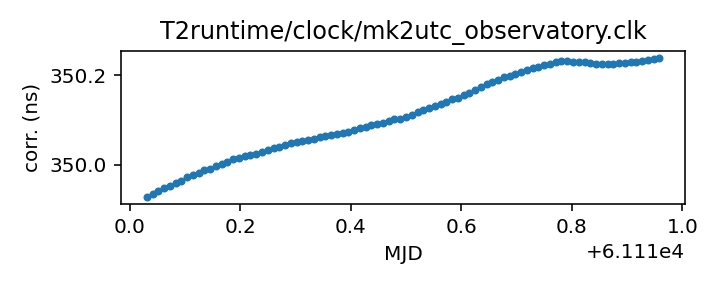
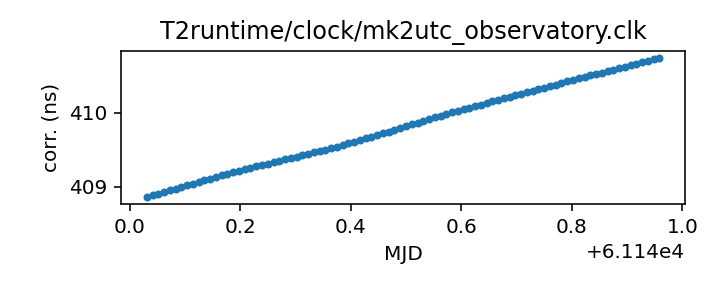
Routine gh-pages update from Github action Fri Apr 17 21:12:51 UTC 2026

diff --git a/status.md b/status.md
@@ -13,18 +13,18 @@ name of each clock file links to a page with more details.
 
 | Name | File | Corrections start | Corrections end | Last check date | Last check result 
 |:--- |:--- | --- | --- | --- |:--- 
-| [GPS to UTC](T2runtime/clock/gps2utc.clk.html) | `T2runtime/clock/gps2utc.clk` | 1993-01-01 MJD 48988.0 | 2026-03-30 MJD 61129.0 | 2026-04-16 | Unchanged 
-| [GPS to UTC (Combined Clock)](T2runtime/clock/gps2utc_cc.clk.html) | `T2runtime/clock/gps2utc_cc.clk` | 1993-01-01 MJD 48988.0 | 2026-03-30 MJD 61129.0 | 2026-04-16 | Unchanged 
-| [GPS to UTC (Corrected)](T2runtime/clock/gps2utc_c0p.clk.html) | `T2runtime/clock/gps2utc_c0p.clk` | 2010-12-29 MJD 55559.0 | 2026-03-30 MJD 61129.0 | 2026-04-16 | Unchanged 
-| [GBT](tempo/clock/time_gbt.dat.html) | `tempo/clock/time_gbt.dat` | 2000-12-31 MJD 51909.5 | 2026-04-15 MJD 61145.5 | 2026-04-16 | Updated 
-| [GBT (TEMPO2 converted from TEMPO)](T2runtime/clock/gbt2gps.clk.html) | `T2runtime/clock/gbt2gps.clk` | 2000-12-31 MJD 51909.5 | 2024-05-18 MJD 60448.5 | 2026-04-16 | **Validation failed** 
+| [GPS to UTC](T2runtime/clock/gps2utc.clk.html) | `T2runtime/clock/gps2utc.clk` | 1993-01-01 MJD 48988.0 | 2026-03-30 MJD 61129.0 | 2026-04-17 | Unchanged 
+| [GPS to UTC (Combined Clock)](T2runtime/clock/gps2utc_cc.clk.html) | `T2runtime/clock/gps2utc_cc.clk` | 1993-01-01 MJD 48988.0 | 2026-03-30 MJD 61129.0 | 2026-04-17 | Unchanged 
+| [GPS to UTC (Corrected)](T2runtime/clock/gps2utc_c0p.clk.html) | `T2runtime/clock/gps2utc_c0p.clk` | 2010-12-29 MJD 55559.0 | 2026-03-30 MJD 61129.0 | 2026-04-17 | Unchanged 
+| [GBT](tempo/clock/time_gbt.dat.html) | `tempo/clock/time_gbt.dat` | 2000-12-31 MJD 51909.5 | 2026-04-16 MJD 61146.5 | 2026-04-17 | Updated 
+| [GBT (TEMPO2 converted from TEMPO)](T2runtime/clock/gbt2gps.clk.html) | `T2runtime/clock/gbt2gps.clk` | 2000-12-31 MJD 51909.5 | 2024-05-18 MJD 60448.5 | 2026-04-17 | **Validation failed** 
 | [Jodrell Bank](T2runtime/clock/jb2gps.clk.html) | `T2runtime/clock/jb2gps.clk` | 2006-10-13 MJD 54021.4 | 2025-11-28 MJD 61007.0 | 2026-04-13 | Unchanged 
-| [Jodrell Bank Roach](T2runtime/clock/jbroach2jb.clk.html) | `T2runtime/clock/jbroach2jb.clk` | 2006-10-13 MJD 54021.4 | 2018-03-20 MJD 58197.6 | 2026-04-10 | Unchanged 
-| [Jodrell Bank DFB](T2runtime/clock/jbdfb2jb.clk.html) | `T2runtime/clock/jbdfb2jb.clk` | 2006-10-13 MJD 54021.4 | 2021-02-22 MJD 59268.0 | 2026-04-10 | Unchanged 
-| [Meerkat (observatory)](T2runtime/clock/mk2utc_observatory.clk.html) | `T2runtime/clock/mk2utc_observatory.clk` | 2019-01-01 MJD 58484.0 | 2026-03-11 MJD 61111.0 | 2026-04-10 | Unchanged 
-| [Leap seconds](tempo/clock/leap.sec.html) | `tempo/clock/leap.sec` | 1972-07-01 MJD 41499.0 | 2017-01-01 MJD 57754.0 | 2026-04-16 | Unchanged 
-| [UT1 table](tempo/clock/ut1.dat.html) | `tempo/clock/ut1.dat` | 1973-01-02 MJD 41684.0 | 2027-04-24 MJD 61519.0 | 2026-04-16 | Updated 
-| [UT1 table](T2runtime/clock/ut1.dat.html) | `T2runtime/clock/ut1.dat` | 1973-01-02 MJD 41684.0 | 2027-04-24 MJD 61519.0 | 2026-04-16 | Updated 
+| [Jodrell Bank Roach](T2runtime/clock/jbroach2jb.clk.html) | `T2runtime/clock/jbroach2jb.clk` | 2006-10-13 MJD 54021.4 | 2018-03-20 MJD 58197.6 | 2026-04-17 | Unchanged 
+| [Jodrell Bank DFB](T2runtime/clock/jbdfb2jb.clk.html) | `T2runtime/clock/jbdfb2jb.clk` | 2006-10-13 MJD 54021.4 | 2021-02-22 MJD 59268.0 | 2026-04-17 | Unchanged 
+| [Meerkat (observatory)](T2runtime/clock/mk2utc_observatory.clk.html) | `T2runtime/clock/mk2utc_observatory.clk` | 2019-01-01 MJD 58484.0 | 2026-04-10 MJD 61141.0 | 2026-04-17 | Updated 
+| [Leap seconds](tempo/clock/leap.sec.html) | `tempo/clock/leap.sec` | 1972-07-01 MJD 41499.0 | 2017-01-01 MJD 57754.0 | 2026-04-17 | Unchanged 
+| [UT1 table](tempo/clock/ut1.dat.html) | `tempo/clock/ut1.dat` | 1973-01-02 MJD 41684.0 | 2027-04-24 MJD 61519.0 | 2026-04-17 | Unchanged 
+| [UT1 table](T2runtime/clock/ut1.dat.html) | `T2runtime/clock/ut1.dat` | 1973-01-02 MJD 41684.0 | 2027-04-24 MJD 61519.0 | 2026-04-17 | Unchanged 
 
 
 
@@ -69,26 +69,26 @@ name of each clock file links to a page with more details.
 
 | Name | File | Corrections start | Corrections end | Last check date | Last check result 
 |:--- |:--- | --- | --- | --- |:--- 
-| [GPS to UTC (TEMPO2)](T2runtime/clock/gpst2utc_tempo2.clk.html) | `T2runtime/clock/gpst2utc_tempo2.clk` | 1993-01-01 MJD 48988.0 | 2024-12-30 MJD 60674.0 | 2026-04-10 | Unchanged 
-| [GBT (TEMPO2)](T2runtime/clock/gbt2gps_tempo2.clk.html) | `T2runtime/clock/gbt2gps_tempo2.clk` | 2000-12-31 MJD 51909.5 | 2020-02-25 MJD 58904.5 | 2026-04-10 | Unchanged 
-| [Jodrell Bank (TEMPO)](tempo/clock/time_jb.dat.html) | `tempo/clock/time_jb.dat` | 2006-10-13 MJD 54021.4 | 2019-05-13 MJD 58616.2 | 2026-04-10 | Unchanged 
-| [VLA](tempo/clock/time_vla.dat.html) | `tempo/clock/time_vla.dat` | 1990-10-27 MJD 48191.2 | 2025-02-10 MJD 60716.2 | 2026-04-10 | Unchanged 
-| [VLA (TEMPO2)](T2runtime/clock/vla2gps.clk.html) | `T2runtime/clock/vla2gps.clk` | 2015-02-01 MJD 57054.6 | 2025-02-10 MJD 60716.2 | 2026-04-10 | Unchanged 
-| [VLA to NIST](T2runtime/clock/vla2nist.clk.html) | `T2runtime/clock/vla2nist.clk` | 1990-10-27 MJD 48191.2 | 1993-11-13 MJD 49304.0 | 2026-04-10 | Unchanged 
-| [FAST](tempo/clock/time_fast.dat.html) | `tempo/clock/time_fast.dat` | 2017-07-27 MJD 57961.0 | 2025-08-25 MJD 60913.0 | 2026-04-10 | **Failed to download** 
-| [WSRT](T2runtime/clock/wsrt2gps.clk.html) | `T2runtime/clock/wsrt2gps.clk` | 1999-01-01 MJD 51179.5 | 2015-06-29 MJD 57202.1 | 2026-04-10 | Unchanged 
-| [WSRT (TEMPO)](tempo/clock/time_wsrt.dat.html) | `tempo/clock/time_wsrt.dat` | 1987-07-24 MJD 47000.0 | 2007-12-24 MJD 54458.0 | 2026-04-10 | **Validation failed** 
-| [Parkes](T2runtime/clock/pks2gps.clk.html) | `T2runtime/clock/pks2gps.clk` | 1858-11-17 MJD 0.0 | 2026-02-28 MJD 61099.1 | 2026-04-10 | Unchanged 
-| [Parkes (TEMPO)](tempo/clock/time_pks.dat.html) | `tempo/clock/time_pks.dat` | 1979-05-07 MJD 44000.0 | 2011-07-03 MJD 55745.8 | 2026-04-10 | Unchanged 
-| [SRT](T2runtime/clock/srt2gps.clk.html) | `T2runtime/clock/srt2gps.clk` | 2013-03-20 MJD 56371.0 | 2019-12-11 MJD 58828.0 | 2026-04-10 | Unchanged 
-| [Effelsberg](T2runtime/clock/eff2gps.clk.html) | `T2runtime/clock/eff2gps.clk` | 1993-11-29 MJD 49320.0 | 2015-06-22 MJD 57195.5 | 2026-04-10 | Unchanged 
-| [Effelsberg Asterix/PSRix](T2runtime/clock/effix2gps.clk.html) | `T2runtime/clock/effix2gps.clk` | 2011-01-01 MJD 55562.5 | 2021-03-21 MJD 59294.5 | 2026-04-10 | **Validation failed** 
-| [LEAP](T2runtime/clock/leap2effix.clk.html) | `T2runtime/clock/leap2effix.clk` | 2012-10-29 MJD 56230.0 | 2014-03-04 MJD 56720.0 | 2026-04-10 | Unchanged 
-| [NUPPI](tempo/clock/time_nuppi.dat.html) | `tempo/clock/time_nuppi.dat` | 2005-03-07 MJD 53436.0 | 2015-11-08 MJD 57334.6 | 2026-04-10 | Unchanged 
-| [Meerkat (TEMPO2)](T2runtime/clock/mk2utc.clk.html) | `T2runtime/clock/mk2utc.clk` | 2019-01-01 MJD 58484.0 | 2024-09-23 MJD 60576.9 | 2026-04-10 | **Validation failed** 
-| [MOST](T2runtime/clock/mo2gps.clk.html) | `T2runtime/clock/mo2gps.clk` | 2003-12-27 MJD 53000.0 | 2018-09-06 MJD 58367.0 | 2026-04-10 | Unchanged 
-| [Nancay to obspm](T2runtime/clock/ncyobs2obspm.clk.html) | `T2runtime/clock/ncyobs2obspm.clk` | 1988-05-18 MJD 47299.6 | 2025-09-26 MJD 60944.0 | 2026-04-10 | Unchanged 
-| [obspm](T2runtime/clock/obspm2gps.clk.html) | `T2runtime/clock/obspm2gps.clk` | 2003-12-01 MJD 52974.0 | 2025-09-26 MJD 60944.0 | 2026-04-10 | Unchanged 
+| [GPS to UTC (TEMPO2)](T2runtime/clock/gpst2utc_tempo2.clk.html) | `T2runtime/clock/gpst2utc_tempo2.clk` | 1993-01-01 MJD 48988.0 | 2024-12-30 MJD 60674.0 | 2026-04-17 | Unchanged 
+| [GBT (TEMPO2)](T2runtime/clock/gbt2gps_tempo2.clk.html) | `T2runtime/clock/gbt2gps_tempo2.clk` | 2000-12-31 MJD 51909.5 | 2020-02-25 MJD 58904.5 | 2026-04-17 | Unchanged 
+| [Jodrell Bank (TEMPO)](tempo/clock/time_jb.dat.html) | `tempo/clock/time_jb.dat` | 2006-10-13 MJD 54021.4 | 2019-05-13 MJD 58616.2 | 2026-04-17 | Unchanged 
+| [VLA](tempo/clock/time_vla.dat.html) | `tempo/clock/time_vla.dat` | 1990-10-27 MJD 48191.2 | 2025-02-10 MJD 60716.2 | 2026-04-17 | Unchanged 
+| [VLA (TEMPO2)](T2runtime/clock/vla2gps.clk.html) | `T2runtime/clock/vla2gps.clk` | 2015-02-01 MJD 57054.6 | 2025-02-10 MJD 60716.2 | 2026-04-17 | Unchanged 
+| [VLA to NIST](T2runtime/clock/vla2nist.clk.html) | `T2runtime/clock/vla2nist.clk` | 1990-10-27 MJD 48191.2 | 1993-11-13 MJD 49304.0 | 2026-04-17 | Unchanged 
+| [FAST](tempo/clock/time_fast.dat.html) | `tempo/clock/time_fast.dat` | 2017-07-27 MJD 57961.0 | 2025-08-25 MJD 60913.0 | 2026-04-17 | **Failed to download** 
+| [WSRT](T2runtime/clock/wsrt2gps.clk.html) | `T2runtime/clock/wsrt2gps.clk` | 1999-01-01 MJD 51179.5 | 2015-06-29 MJD 57202.1 | 2026-04-17 | Unchanged 
+| [WSRT (TEMPO)](tempo/clock/time_wsrt.dat.html) | `tempo/clock/time_wsrt.dat` | 1987-07-24 MJD 47000.0 | 2007-12-24 MJD 54458.0 | 2026-04-17 | **Validation failed** 
+| [Parkes](T2runtime/clock/pks2gps.clk.html) | `T2runtime/clock/pks2gps.clk` | 1858-11-17 MJD 0.0 | 2026-02-28 MJD 61099.1 | 2026-04-17 | Unchanged 
+| [Parkes (TEMPO)](tempo/clock/time_pks.dat.html) | `tempo/clock/time_pks.dat` | 1979-05-07 MJD 44000.0 | 2011-07-03 MJD 55745.8 | 2026-04-17 | Unchanged 
+| [SRT](T2runtime/clock/srt2gps.clk.html) | `T2runtime/clock/srt2gps.clk` | 2013-03-20 MJD 56371.0 | 2019-12-11 MJD 58828.0 | 2026-04-17 | Unchanged 
+| [Effelsberg](T2runtime/clock/eff2gps.clk.html) | `T2runtime/clock/eff2gps.clk` | 1993-11-29 MJD 49320.0 | 2015-06-22 MJD 57195.5 | 2026-04-17 | Unchanged 
+| [Effelsberg Asterix/PSRix](T2runtime/clock/effix2gps.clk.html) | `T2runtime/clock/effix2gps.clk` | 2011-01-01 MJD 55562.5 | 2021-03-21 MJD 59294.5 | 2026-04-17 | **Validation failed** 
+| [LEAP](T2runtime/clock/leap2effix.clk.html) | `T2runtime/clock/leap2effix.clk` | 2012-10-29 MJD 56230.0 | 2014-03-04 MJD 56720.0 | 2026-04-17 | Unchanged 
+| [NUPPI](tempo/clock/time_nuppi.dat.html) | `tempo/clock/time_nuppi.dat` | 2005-03-07 MJD 53436.0 | 2015-11-08 MJD 57334.6 | 2026-04-17 | Unchanged 
+| [Meerkat (TEMPO2)](T2runtime/clock/mk2utc.clk.html) | `T2runtime/clock/mk2utc.clk` | 2019-01-01 MJD 58484.0 | 2024-09-23 MJD 60576.9 | 2026-04-17 | **Validation failed** 
+| [MOST](T2runtime/clock/mo2gps.clk.html) | `T2runtime/clock/mo2gps.clk` | 2003-12-27 MJD 53000.0 | 2018-09-06 MJD 58367.0 | 2026-04-17 | Unchanged 
+| [Nancay to obspm](T2runtime/clock/ncyobs2obspm.clk.html) | `T2runtime/clock/ncyobs2obspm.clk` | 1988-05-18 MJD 47299.6 | 2025-09-26 MJD 60944.0 | 2026-04-17 | Unchanged 
+| [obspm](T2runtime/clock/obspm2gps.clk.html) | `T2runtime/clock/obspm2gps.clk` | 2003-12-01 MJD 52974.0 | 2025-09-26 MJD 60944.0 | 2026-04-17 | Unchanged 
 
 
 ### Further information:

diff --git a/T2runtime/clock/gbt2gps.clk.md b/T2runtime/clock/gbt2gps.clk.md
@@ -25,12 +25,11 @@ If questions arise about the conversion, contact Anne Archibald
 | Clock file start | 2000-12-31 MJD 51909.5 |
 | Clock file end | 2024-05-18 MJD 60448.5 |
 | Update interval (days) | 1 |
-| Last update attempt | 2026-04-16 |
+| Last update attempt | 2026-04-17 |
 | Last update result | Validation failed |
 
 Log entries from the last few update attempts:
 ```
-2026-04-07 21:10:34.410 - Validation failed: New version of T2runtime/clock/gbt2gps.clk clock corrections differ from old version where they overlap in 11 places
 2026-04-08 21:09:12.047 - Validation failed: New version of T2runtime/clock/gbt2gps.clk clock corrections differ from old version where they overlap in 11 places
 2026-04-09 21:09:37.006 - Validation failed: New version of T2runtime/clock/gbt2gps.clk clock corrections differ from old version where they overlap in 11 places
 2026-04-10 21:02:50.322 - Validation failed: New version of T2runtime/clock/gbt2gps.clk clock corrections differ from old version where they overlap in 11 places
@@ -40,6 +39,7 @@ Log entries from the last few update attempts:
 2026-04-14 21:14:37.124 - Validation failed: New version of T2runtime/clock/gbt2gps.clk clock corrections differ from old version where they overlap in 11 places
 2026-04-15 21:13:51.623 - Validation failed: New version of T2runtime/clock/gbt2gps.clk clock corrections differ from old version where they overlap in 11 places
 2026-04-16 21:10:18.745 - Validation failed: New version of T2runtime/clock/gbt2gps.clk clock corrections differ from old version where they overlap in 11 places
+2026-04-17 21:10:21.965 - Validation failed: New version of T2runtime/clock/gbt2gps.clk clock corrections differ from old version where they overlap in 11 places
 ```
 [Full log](https://raw.githubusercontent.com/ipta/pulsar-clock-corrections/main/log/T2runtime/clock/gbt2gps.clk.log)
 

diff --git a/T2runtime/clock/mk2utc.clk.md b/T2runtime/clock/mk2utc.clk.md
@@ -17,12 +17,11 @@ up-to-date.
 | Clock file start | 2019-01-01 MJD 58484.0 |
 | Clock file end | 2024-09-23 MJD 60576.9 |
 | Update interval (days) | 7 |
-| Last update attempt | 2026-04-10 |
+| Last update attempt | 2026-04-17 |
 | Last update result | Validation failed |
 
 Log entries from the last few update attempts:
 ```
-2026-01-26 20:50:02.551 - Validation failed: New version of T2runtime/clock/mk2utc.clk MJDs differ from old version where they overlap in 8252 places
 2026-02-03 21:02:22.182 - Validation failed: New version of T2runtime/clock/mk2utc.clk MJDs differ from old version where they overlap in 8252 places
 2026-02-10 21:08:09.851 - Validation failed: New version of T2runtime/clock/mk2utc.clk MJDs differ from old version where they overlap in 8252 places
 2026-02-17 21:03:25.638 - Validation failed: New version of T2runtime/clock/mk2utc.clk MJDs differ from old version where they overlap in 8252 places
@@ -32,6 +31,7 @@ Log entries from the last few update attempts:
 2026-03-27 21:04:45.050 - Validation failed: New version of T2runtime/clock/mk2utc.clk MJDs differ from old version where they overlap in 8252 places
 2026-04-03 21:02:15.685 - Validation failed: New version of T2runtime/clock/mk2utc.clk MJDs differ from old version where they overlap in 8252 places
 2026-04-10 21:03:04.044 - Validation failed: New version of T2runtime/clock/mk2utc.clk MJDs differ from old version where they overlap in 8252 places
+2026-04-17 21:12:22.357 - Validation failed: New version of T2runtime/clock/mk2utc.clk MJDs differ from old version where they overlap in 8252 places
 ```
 [Full log](https://raw.githubusercontent.com/ipta/pulsar-clock-corrections/main/log/T2runtime/clock/mk2utc.clk.log)
 

diff --git a/tempo/clock/time_wsrt.dat.md b/tempo/clock/time_wsrt.dat.md
@@ -20,12 +20,11 @@ should be the same information.
 | Clock file start | 1987-07-24 MJD 47000.0 |
 | Clock file end | 2007-12-24 MJD 54458.0 |
 | Update interval (days) | 7 |
-| Last update attempt | 2026-04-10 |
+| Last update attempt | 2026-04-17 |
 | Last update result | Validation failed |
 
 Log entries from the last few update attempts:
 ```
-2026-01-26 20:49:50.977 - Validation failed: New version of tempo/clock/time_wsrt.dat MJDs differ from old version where they overlap in 5 places
 2026-02-03 21:01:57.291 - Validation failed: New version of tempo/clock/time_wsrt.dat MJDs differ from old version where they overlap in 5 places
 2026-02-10 21:07:59.574 - Validation failed: New version of tempo/clock/time_wsrt.dat MJDs differ from old version where they overlap in 5 places
 2026-02-17 21:03:13.851 - Validation failed: New version of tempo/clock/time_wsrt.dat MJDs differ from old version where they overlap in 5 places
@@ -35,6 +34,7 @@ Log entries from the last few update attempts:
 2026-03-27 21:04:31.030 - Validation failed: New version of tempo/clock/time_wsrt.dat MJDs differ from old version where they overlap in 5 places
 2026-04-03 21:02:04.538 - Validation failed: New version of tempo/clock/time_wsrt.dat MJDs differ from old version where they overlap in 5 places
 2026-04-10 21:02:52.647 - Validation failed: New version of tempo/clock/time_wsrt.dat MJDs differ from old version where they overlap in 5 places
+2026-04-17 21:10:25.079 - Validation failed: New version of tempo/clock/time_wsrt.dat MJDs differ from old version where they overlap in 5 places
 ```
 [Full log](https://raw.githubusercontent.com/ipta/pulsar-clock-corrections/main/log/tempo/clock/time_wsrt.dat.log)
 

diff --git a/T2runtime/clock/mk2utc_observatory.clk.md b/T2runtime/clock/mk2utc_observatory.clk.md
@@ -19,14 +19,13 @@ If questions arise, contact Ryan Shannon <rshannon@swin.edu.au>
 | Format | tempo2 |
 | Bogus last correction | False |
 | Clock file start | 2019-01-01 MJD 58484.0 |
-| Clock file end | 2026-03-11 MJD 61111.0 |
+| Clock file end | 2026-04-10 MJD 61141.0 |
 | Update interval (days) | 7 |
-| Last update attempt | 2026-04-10 |
-| Last update result | Unchanged |
+| Last update attempt | 2026-04-17 |
+| Last update result | Updated |
 
 Log entries from the last few update attempts:
 ```
-2026-01-26 20:50:01.083 - Unchanged
 2026-02-03 21:02:20.809 - Unchanged
 2026-02-10 21:08:08.520 - Unchanged
 2026-02-17 21:03:24.266 - Updated
@@ -36,6 +35,7 @@ Log entries from the last few update attempts:
 2026-03-27 21:04:43.296 - Unchanged
 2026-04-03 21:02:14.300 - Unchanged
 2026-04-10 21:03:02.691 - Unchanged
+2026-04-17 21:12:20.424 - Updated
 ```
 [Full log](https://raw.githubusercontent.com/ipta/pulsar-clock-corrections/main/log/T2runtime/clock/mk2utc_observatory.clk.log)
 
@@ -44,7 +44,7 @@ Leading comments from clock file:
     # Tie of Karoo Telescope Time to UTC
     # This file is from the KTT-GNSS sensor, and does not include circular-T
     # MJD = (SensorTime(us)/86400e6)+40587    15-minute snapshots
-    # Created at unix time 1773735946.550529 from KTT mySQL database.
+    # Created at unix time 1776326930.598292 from KTT mySQL database.
     #
     # MJD (days)   KTT-UTC (seconds)
     #------------------------------------------------------

diff --git a/T2runtime/clock/effix2gps.clk.md b/T2runtime/clock/effix2gps.clk.md
@@ -20,12 +20,11 @@ thus here) can be expected to be somewhat up to date.
 | Clock file start | 2011-01-01 MJD 55562.5 |
 | Clock file end | 2021-03-21 MJD 59294.5 |
 | Update interval (days) | 7 |
-| Last update attempt | 2026-04-10 |
+| Last update attempt | 2026-04-17 |
 | Last update result | Validation failed |
 
 Log entries from the last few update attempts:
 ```
-2026-01-26 20:49:56.754 - Unchanged
 2026-02-03 21:02:03.460 - Unchanged
 2026-02-10 21:08:05.021 - Unchanged
 2026-02-17 21:03:20.031 - Unchanged
@@ -35,6 +34,7 @@ Log entries from the last few update attempts:
 2026-03-27 21:04:36.790 - Validation failed: New version of T2runtime/clock/effix2gps.clk clock corrections differ from old version where they overlap in 52 places
 2026-04-03 21:02:10.017 - Validation failed: New version of T2runtime/clock/effix2gps.clk clock corrections differ from old version where they overlap in 52 places
 2026-04-10 21:02:58.209 - Validation failed: New version of T2runtime/clock/effix2gps.clk clock corrections differ from old version where they overlap in 52 places
+2026-04-17 21:10:30.149 - Validation failed: New version of T2runtime/clock/effix2gps.clk clock corrections differ from old version where they overlap in 52 places
 ```
 [Full log](https://raw.githubusercontent.com/ipta/pulsar-clock-corrections/main/log/T2runtime/clock/effix2gps.clk.log)
 

diff --git a/tempo/clock/time_fast.dat.md b/tempo/clock/time_fast.dat.md
@@ -16,12 +16,11 @@ This file is pulled from the FAST_ClockFile repository.
 | Clock file start | 2017-07-27 MJD 57961.0 |
 | Clock file end | 2025-08-25 MJD 60913.0 |
 | Update interval (days) | 7 |
-| Last update attempt | 2026-04-10 |
+| Last update attempt | 2026-04-17 |
 | Last update result | Failed to download |
 
 Log entries from the last few update attempts:
 ```
-2026-01-26 20:49:50.003 - Failed to download: HTTP Error 404: Not Found
 2026-02-03 21:01:56.726 - Failed to download: HTTP Error 404: Not Found
 2026-02-10 21:07:58.900 - Failed to download: HTTP Error 404: Not Found
 2026-02-17 21:03:13.336 - Failed to download: HTTP Error 404: Not Found
@@ -31,6 +30,7 @@ Log entries from the last few update attempts:
 2026-03-27 21:04:30.437 - Failed to download: HTTP Error 404: Not Found
 2026-04-03 21:02:04.082 - Failed to download: HTTP Error 404: Not Found
 2026-04-10 21:02:52.257 - Failed to download: HTTP Error 404: Not Found
+2026-04-17 21:10:24.416 - Failed to download: HTTP Error 404: Not Found
 ```
 [Full log](https://raw.githubusercontent.com/ipta/pulsar-clock-corrections/main/log/tempo/clock/time_fast.dat.log)
 

diff --git a/tempo/clock/time_gbt.dat.md b/tempo/clock/time_gbt.dat.md
@@ -36,14 +36,13 @@ If questions arise, contact Ryan S. Lynch <rlynch@nrao.edu>.
 | Format | tempo |
 | Bogus last correction | False |
 | Clock file start | 2000-12-31 MJD 51909.5 |
-| Clock file end | 2026-04-15 MJD 61145.5 |
+| Clock file end | 2026-04-16 MJD 61146.5 |
 | Update interval (days) | 1 |
-| Last update attempt | 2026-04-16 |
+| Last update attempt | 2026-04-17 |
 | Last update result | Updated |
 
 Log entries from the last few update attempts:
 ```
-2026-04-07 21:10:34.335 - Unchanged
 2026-04-08 21:09:11.973 - Updated
 2026-04-09 21:09:36.941 - Updated
 2026-04-10 21:02:49.960 - Updated
@@ -53,6 +52,7 @@ Log entries from the last few update attempts:
 2026-04-14 21:14:37.046 - Updated
 2026-04-15 21:13:51.548 - Updated
 2026-04-16 21:10:18.680 - Updated
+2026-04-17 21:10:21.347 - Updated
 ```
 [Full log](https://raw.githubusercontent.com/ipta/pulsar-clock-corrections/main/log/tempo/clock/time_gbt.dat.log)
 

diff --git a/T2runtime/clock/gps2utc_c0p.clk.md b/T2runtime/clock/gps2utc_c0p.clk.md
@@ -30,12 +30,11 @@ about the BIPM's published corrections, contact <tai@bipm.org>.
 | Clock file start | 2010-12-29 MJD 55559.0 |
 | Clock file end | 2026-03-30 MJD 61129.0 |
 | Update interval (days) | 1 |
-| Last update attempt | 2026-04-16 |
+| Last update attempt | 2026-04-17 |
 | Last update result | Unchanged |
 
 Log entries from the last few update attempts:
 ```
-2026-04-07 21:10:33.333 - Unchanged
 2026-04-08 21:09:11.089 - Unchanged
 2026-04-09 21:09:36.473 - Unchanged
 2026-04-10 21:02:49.546 - Unchanged
@@ -45,6 +44,7 @@ Log entries from the last few update attempts:
 2026-04-14 21:14:36.473 - Updated
 2026-04-15 21:13:50.984 - Unchanged
 2026-04-16 21:10:18.195 - Unchanged
+2026-04-17 21:10:20.417 - Unchanged
 ```
 [Full log](https://raw.githubusercontent.com/ipta/pulsar-clock-corrections/main/log/T2runtime/clock/gps2utc_c0p.clk.log)
 

diff --git a/tempo/clock/time_pks.dat.md b/tempo/clock/time_pks.dat.md
@@ -20,12 +20,11 @@ telescopes in the same file, distinguished only by observatory code.
 | Clock file start | 1979-05-07 MJD 44000.0 |
 | Clock file end | 2011-07-03 MJD 55745.8 |
 | Update interval (days) | 7 |
-| Last update attempt | 2026-04-10 |
+| Last update attempt | 2026-04-17 |
 | Last update result | Unchanged |
 
 Log entries from the last few update attempts:
 ```
-2026-01-26 20:49:55.750 - Unchanged
 2026-02-03 21:02:02.613 - Unchanged
 2026-02-10 21:08:04.503 - Unchanged
 2026-02-17 21:03:19.439 - Unchanged
@@ -35,6 +34,7 @@ Log entries from the last few update attempts:
 2026-03-27 21:04:35.573 - Unchanged
 2026-04-03 21:02:09.501 - Unchanged
 2026-04-10 21:02:57.629 - Unchanged
+2026-04-17 21:10:28.771 - Unchanged
 ```
 [Full log](https://raw.githubusercontent.com/ipta/pulsar-clock-corrections/main/log/tempo/clock/time_pks.dat.log)
 

diff --git a/T2runtime/clock/gps2utc_cc.clk.md b/T2runtime/clock/gps2utc_cc.clk.md
@@ -29,12 +29,11 @@ about the BIPM's published corrections, contact <tai@bipm.org>.
 | Clock file start | 1993-01-01 MJD 48988.0 |
 | Clock file end | 2026-03-30 MJD 61129.0 |
 | Update interval (days) | 1 |
-| Last update attempt | 2026-04-16 |
+| Last update attempt | 2026-04-17 |
 | Last update result | Unchanged |
 
 Log entries from the last few update attempts:
 ```
-2026-04-07 21:10:33.325 - Unchanged
 2026-04-08 21:09:11.081 - Unchanged
 2026-04-09 21:09:36.466 - Unchanged
 2026-04-10 21:02:49.537 - Unchanged
@@ -44,6 +43,7 @@ Log entries from the last few update attempts:
 2026-04-14 21:14:36.447 - Updated
 2026-04-15 21:13:50.976 - Unchanged
 2026-04-16 21:10:18.188 - Unchanged
+2026-04-17 21:10:20.409 - Unchanged
 ```
 [Full log](https://raw.githubusercontent.com/ipta/pulsar-clock-corrections/main/log/T2runtime/clock/gps2utc_cc.clk.log)
 

diff --git a/T2runtime/clock/ut1.dat.md b/T2runtime/clock/ut1.dat.md
@@ -30,12 +30,11 @@ If there are any questions, contact Anne Archibald
 | File start | 1973-01-02 MJD 41684.0 |
 | File end | 2027-04-24 MJD 61519.0 |
 | Update interval (days) | 0 |
-| Last update attempt | 2026-04-16 |
-| Last update result | Updated |
+| Last update attempt | 2026-04-17 |
+| Last update result | Unchanged |
 
 Log entries from the last few update attempts:
 ```
-2026-04-07 21:10:46.267 - Unchanged
 2026-04-08 21:09:23.168 - Unchanged
 2026-04-09 21:09:44.769 - Updated
 2026-04-10 21:03:12.147 - Unchanged
@@ -45,5 +44,6 @@ Log entries from the last few update attempts:
 2026-04-14 21:14:44.916 - Unchanged
 2026-04-15 21:13:59.589 - Unchanged
 2026-04-16 21:10:26.916 - Updated
+2026-04-17 21:12:35.936 - Unchanged
 ```
 [Full log](https://raw.githubusercontent.com/ipta/pulsar-clock-corrections/main/log/T2runtime/clock/ut1.dat.log)
